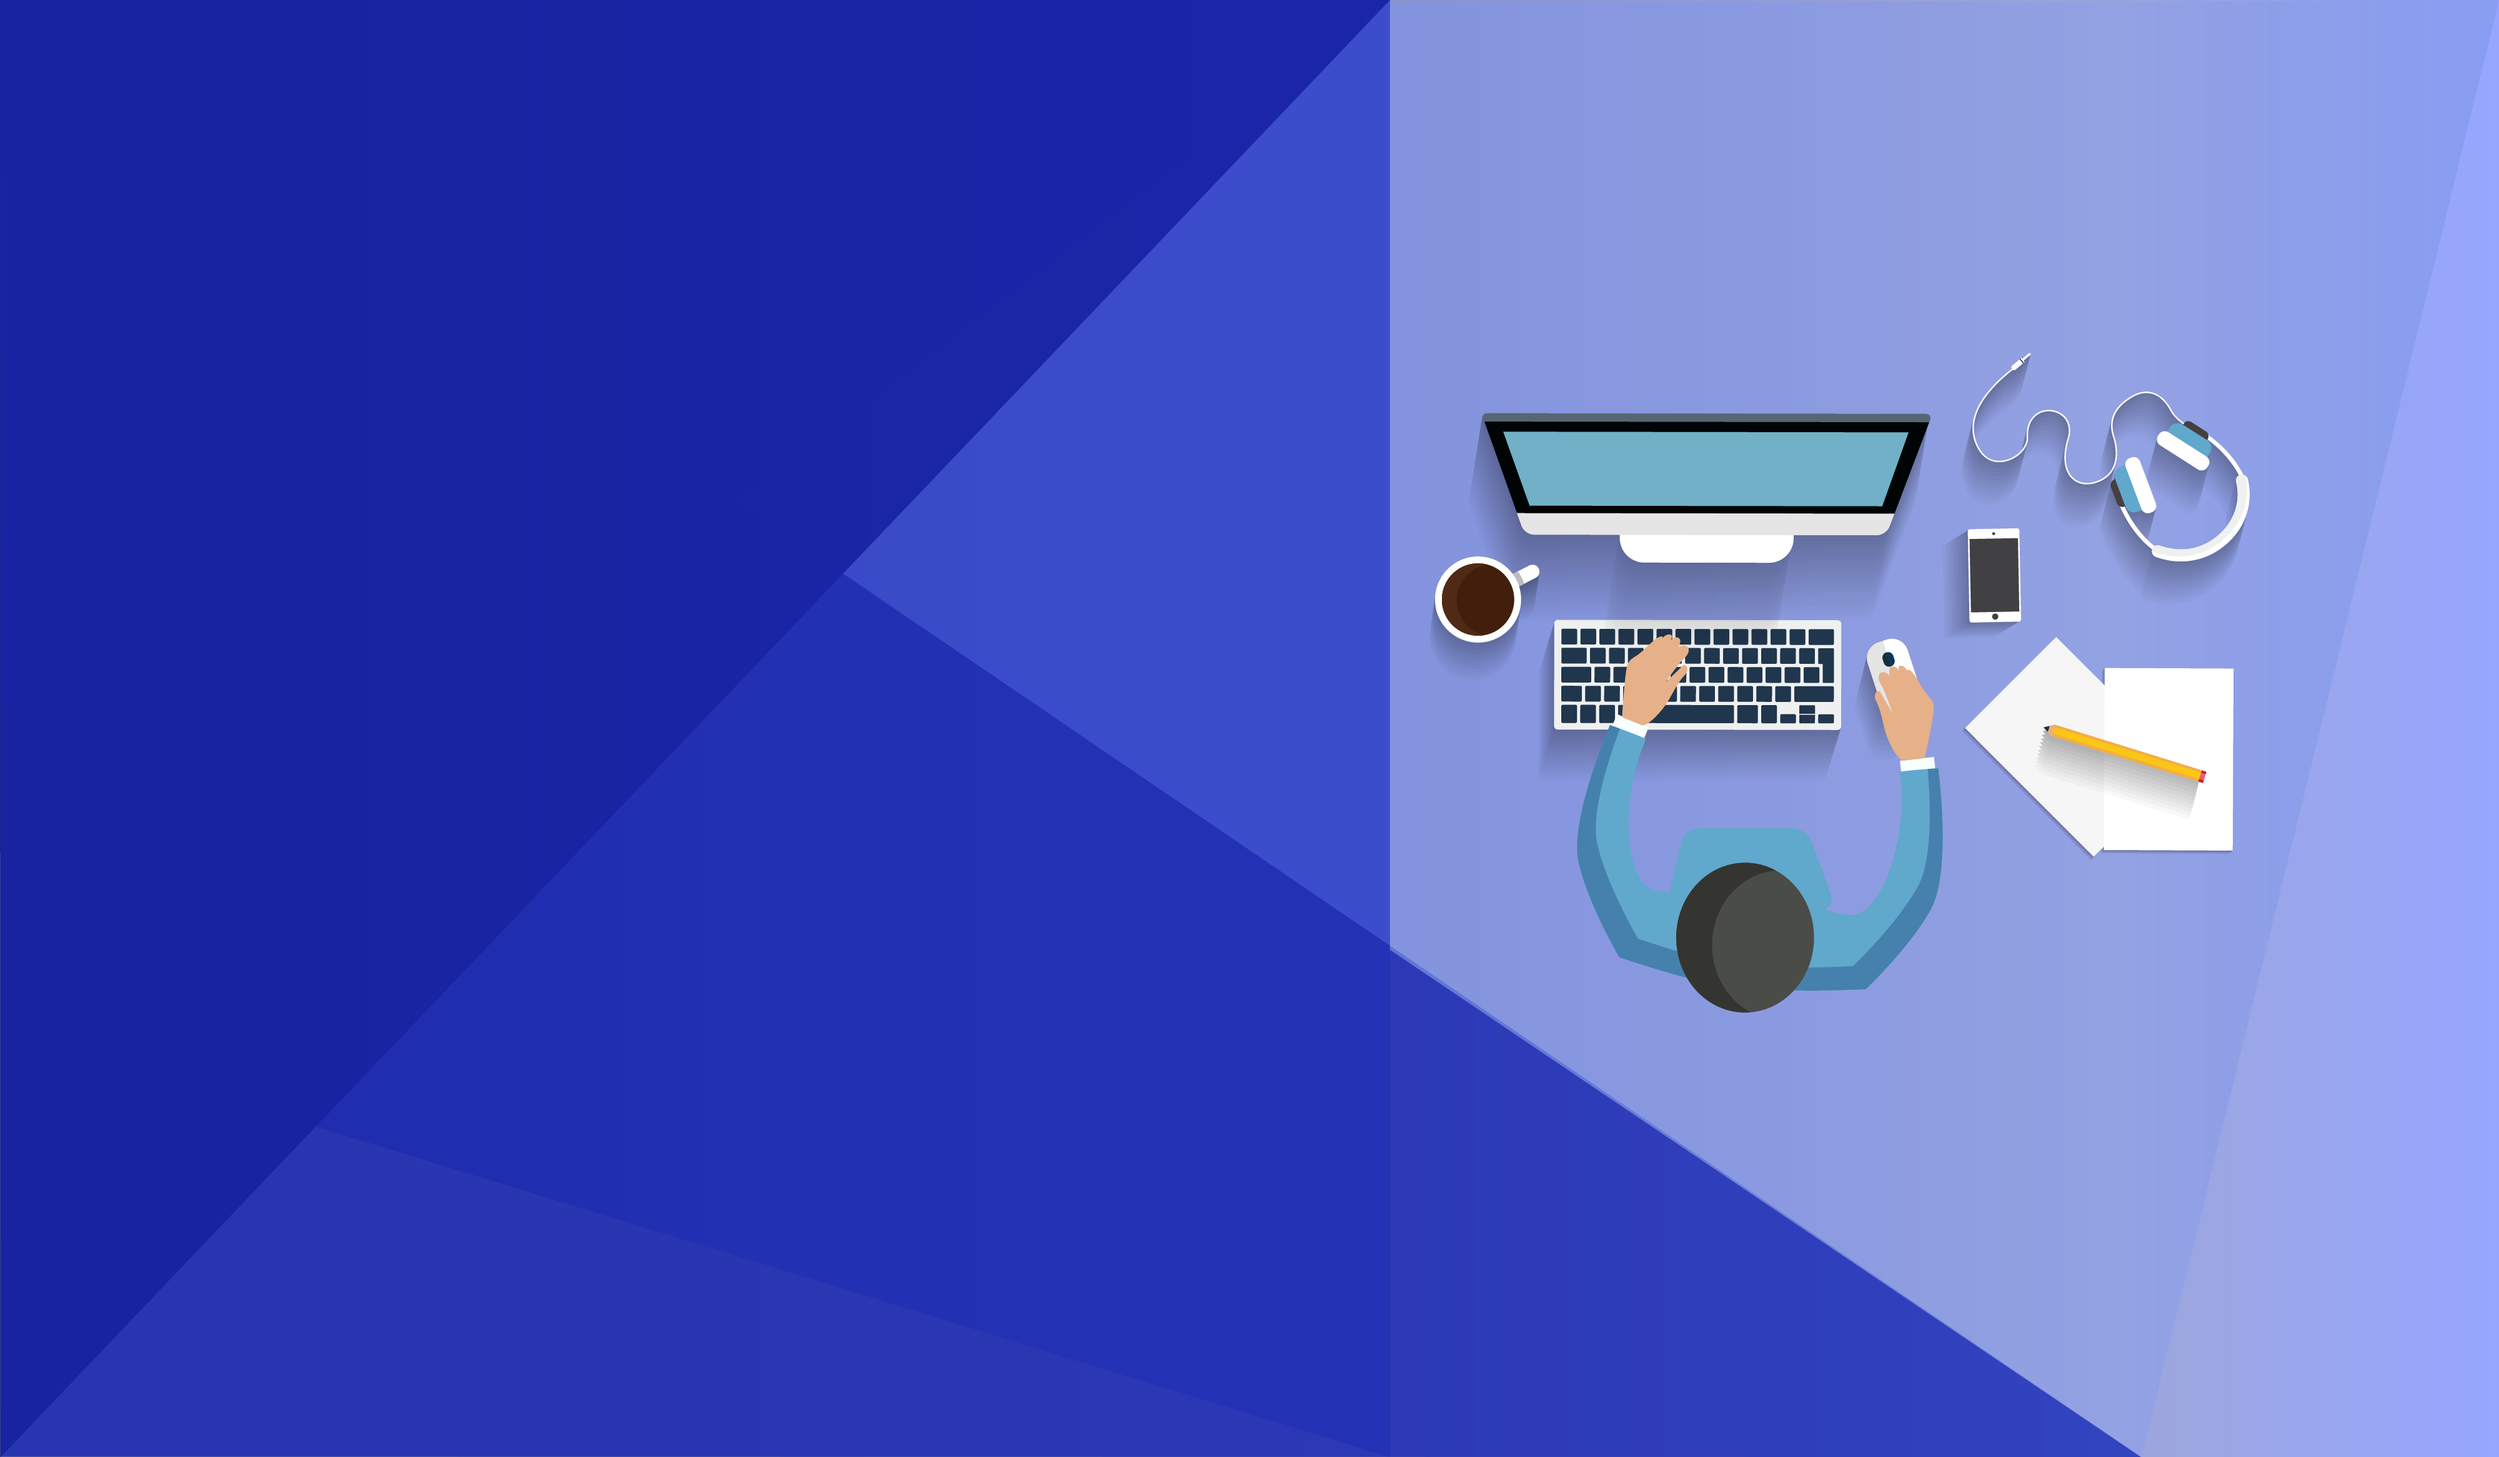
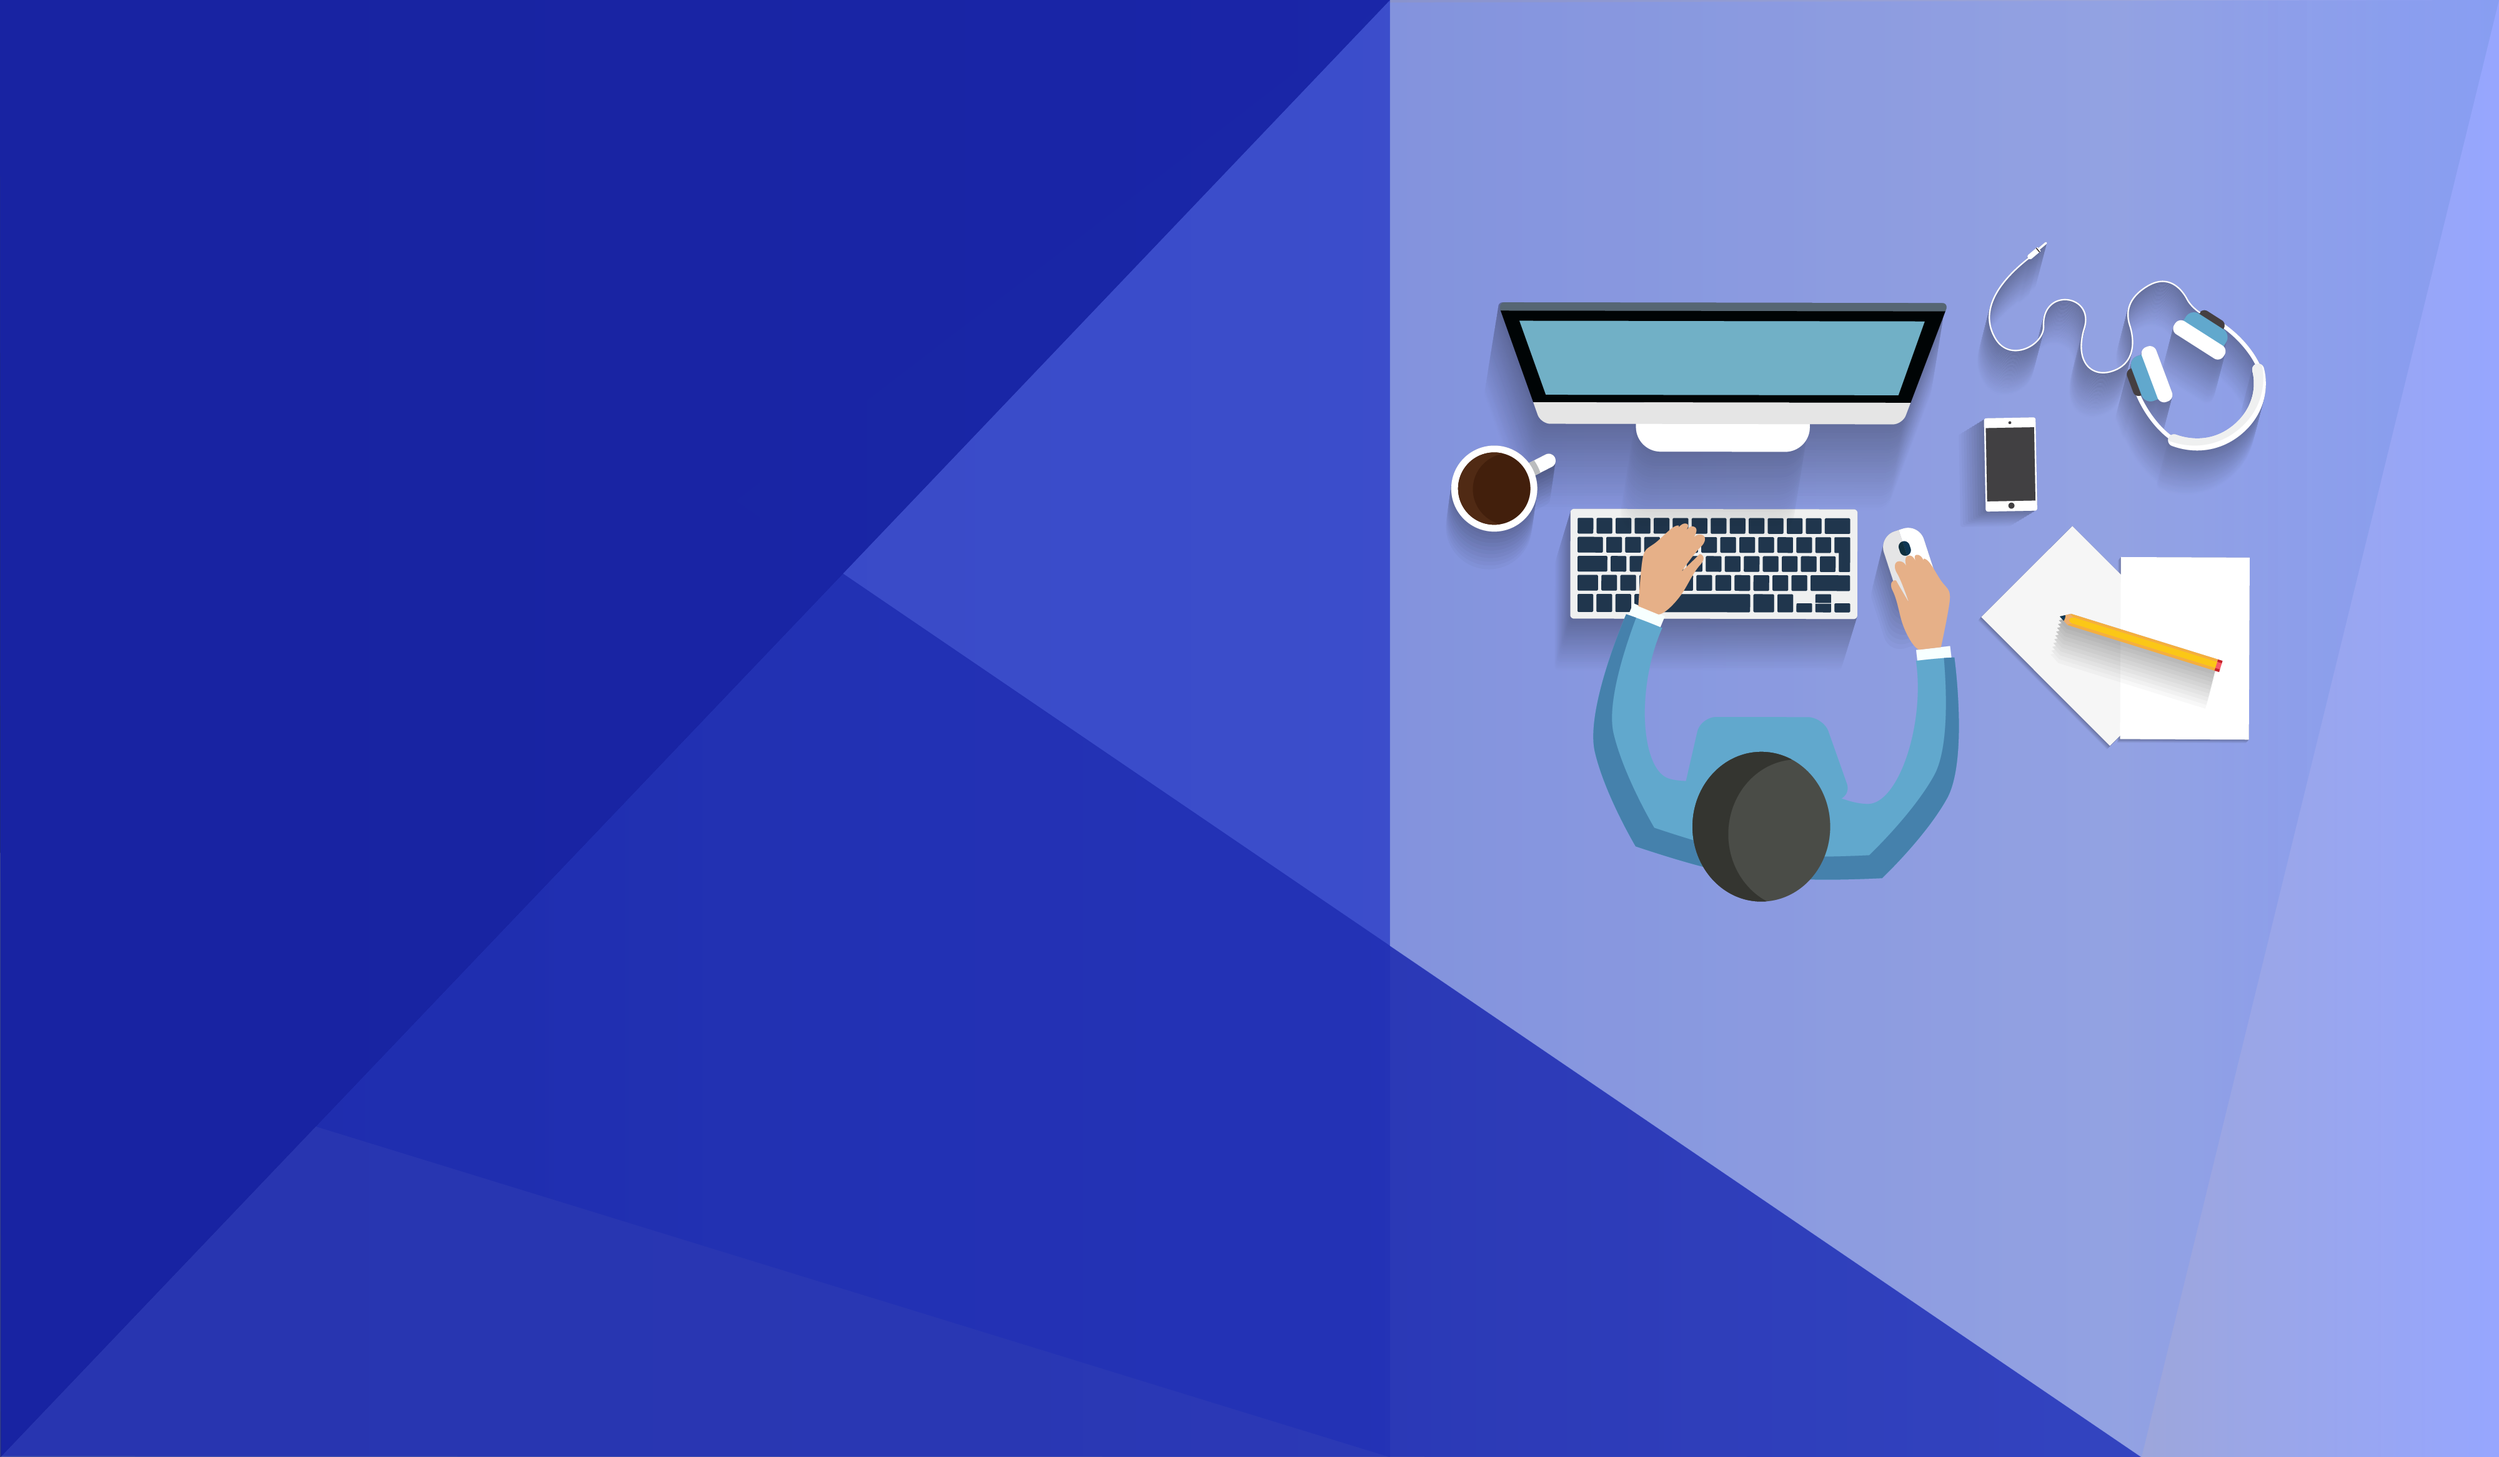
Header is final

Changed region(s): [[0.5625, 0.1852, 0.9062, 0.7098]]

diff --git a/index.html b/index.html
@@ -21,7 +21,7 @@
 
         .bg {
           position: relative;
-          height: 710px;
+          height: 620px;
           width: auto;
           background: url('./img/personal/Portfolio-background1.png');
           background-repeat: no-repeat;
@@ -36,7 +36,7 @@
 
         .caption {
           position: absolute;
-          top: 25%;
+          top: 15%;
           left: 0;
           width: 100%;
         }
